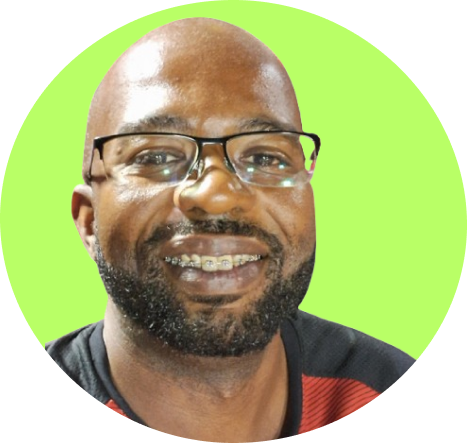
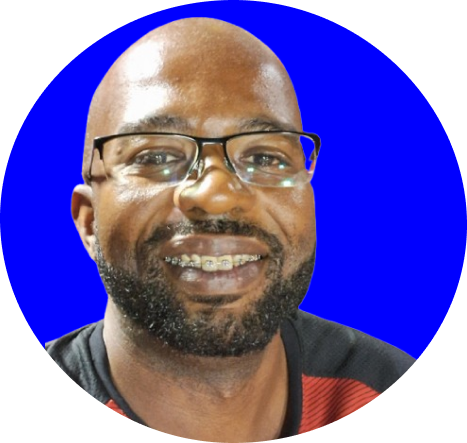
update

diff --git a/src/assets/components/ProjectsSection.jsx b/src/assets/components/ProjectsSection.jsx
@@ -6,7 +6,7 @@ export default function ProjectsSection() {
   return (
     <section
       id="Projects"
-      className="h-screen flex flex-col justify-center items-center  wow animate__animated animate__fadeInLeft"
+      className="h-screen flex flex-col justify-center items-center  wow animate__animated animate__fadeInLeft mt-[300px]"
     >
       <h4 className="text-center pt-10 pb-5 text-2xl sm:text-4xl">Projects</h4>
 
@@ -16,7 +16,7 @@ export default function ProjectsSection() {
             href="https://positivusfrontend.netlify.app/"
             target="_blank"
             rel="noopener noreferrer"
-            className="block bg-white rounded-lg shadow-md hover:shadow-lg transition-shadow duration-300"
+            className="block bg-white rounded-lg shadow-md hover:shadow-lg transition-shadow duration-300 hover:animate-pulse"
           >
             <img
               src={projectOne}
@@ -38,7 +38,7 @@ export default function ProjectsSection() {
             href="https://asianpokebowls.netlify.app/"
             target="_blank"
             rel="noopener noreferrer"
-            className="block bg-white rounded-lg shadow-md hover:shadow-lg transition-shadow duration-300"
+            className="block bg-white rounded-lg shadow-md hover:shadow-lg transition-shadow duration-300 hover:animate-pulse"
           >
             <img
               src={pokebowl}
@@ -60,7 +60,7 @@ export default function ProjectsSection() {
             href="https://pokedexsloan.netlify.app/"
             target="_blank"
             rel="noopener noreferrer"
-            className="block bg-white rounded-lg shadow-md hover:shadow-lg transition-shadow duration-300"
+            className="block bg-white rounded-lg shadow-md hover:shadow-lg transition-shadow duration-300 hover:animate-pulse"
           >
             <img
               src={pokedex}

diff --git a/src/assets/components/HeroSection.jsx b/src/assets/components/HeroSection.jsx
@@ -21,14 +21,14 @@ export default function HeroSection() {
 
           <div className="flex flex-col sm:flex-row gap-3 mt-5 items-center">
             <button
-              className="btn btn-wide bg-gradient-to-l from-green-light3 via-green-light2 to-green-light text-gray-100 border-none hover:from-green-600 hover:via-green-light3 hover:to-green-light2 transition-transform duration-300 hover:animate-pulse"
+              className="btn btn-wide bg-dark-900 text-white border-green-light transition-transform duration-300 hover:animate-pulse hover:text-green-light"
               aria-label="Download CV"
             >
               Download CV
             </button>
 
             <button
-              className="btn btn-wide bg-dark-900 text-white border-green-light transition-transform duration-300 hover:animate-pulse"
+              className="btn btn-wide bg-dark-900 text-white border-green-light transition-transform duration-300 hover:animate-pulse hover:text-green-light"
               aria-label="Contact Me"
             >
               Contact Me

diff --git a/src/assets/components/ContactSection.jsx b/src/assets/components/ContactSection.jsx
@@ -27,7 +27,7 @@ export default function ContactSection() {
   ];
 
   return (
-    <section id="Contacts" className="flex flex-col items-center justify-center gap-11">
+    <section id="Contacts" className="flex flex-col items-center justify-center gap-11 mt-[40px]">
       <h5 className="text-2xl text-center">Contacts</h5>
       <div className="grid grid-cols-1 md:grid-cols-2 lg:grid-cols-4 justify-center items-center gap-6 relative wow animate__animated animate__fadeInLeft">
         {contacts.map((contact, index) => (

diff --git a/src/assets/components/navbar.jsx b/src/assets/components/navbar.jsx
@@ -88,7 +88,7 @@ export default function NavBar() {
             <input
               type="checkbox"
               className="toggle border-green-light bg-dark-900 hover:bg-dark-900"
-              style={{ "--tglbg": theme === "dark" ? "#b9ff66" : "white", }}
+              style={{ "--tglbg": theme === "dark" ? "#0000ff" : "white", }}
               checked={theme === "dark"}
               onChange={toggleTheme}
             />

diff --git a/tailwind.config.js b/tailwind.config.js
@@ -8,7 +8,7 @@ export default {
   theme: {
 
     colors:{
-      "green-light": "#b9ff66",
+      "green-light": "#0000ff",
       "green-light2": "#7ee600",
       "green-light3": "#2a4d00 ",
       "dark-900": "#191a23",
